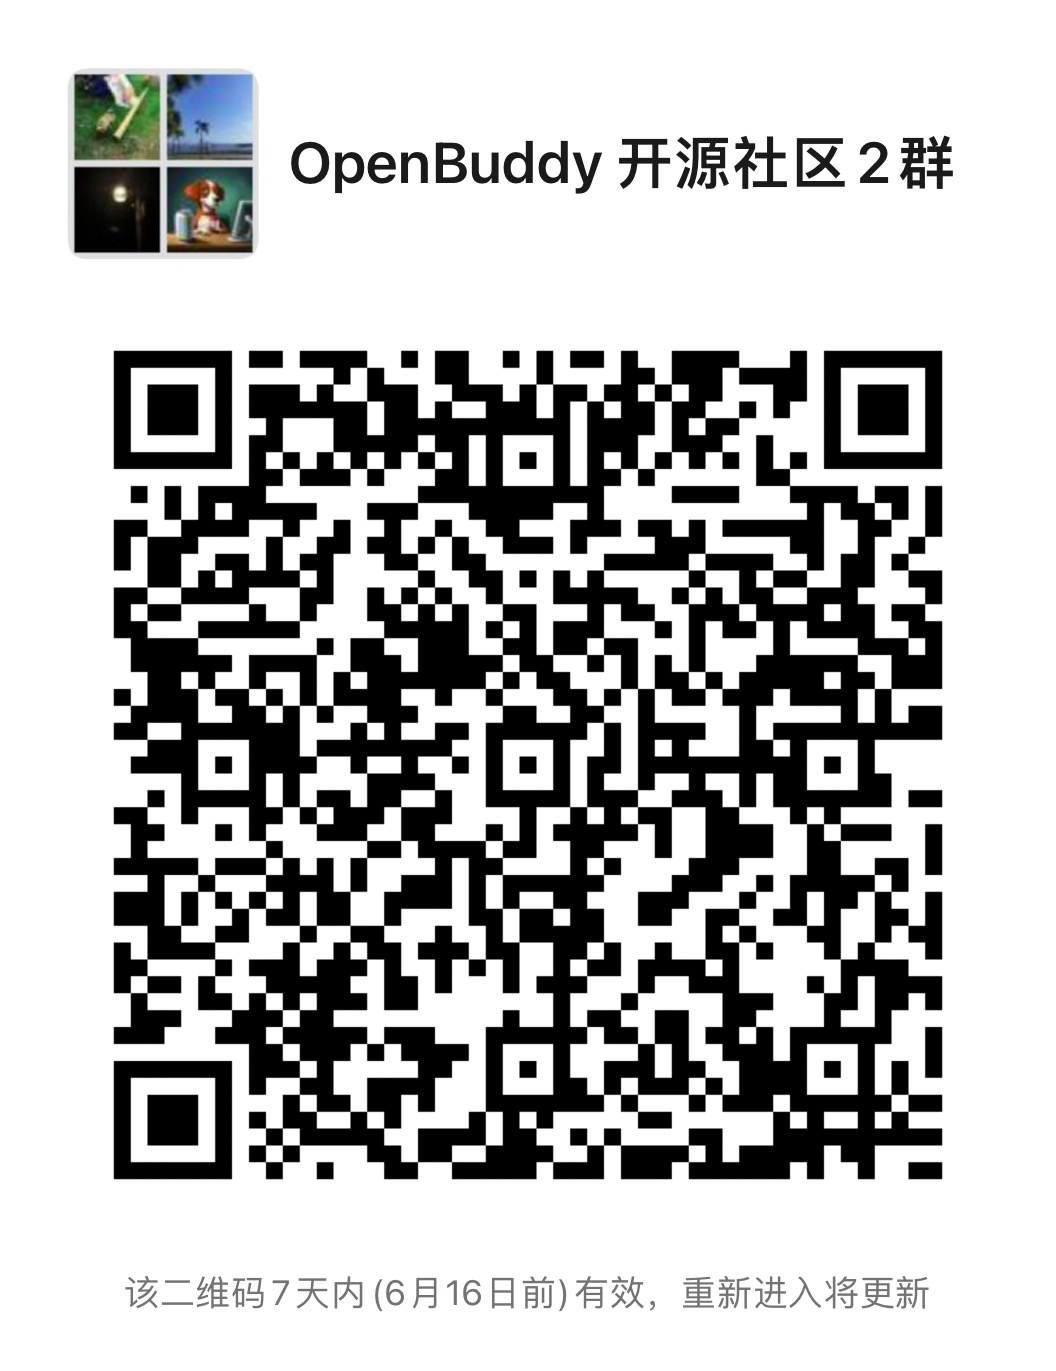
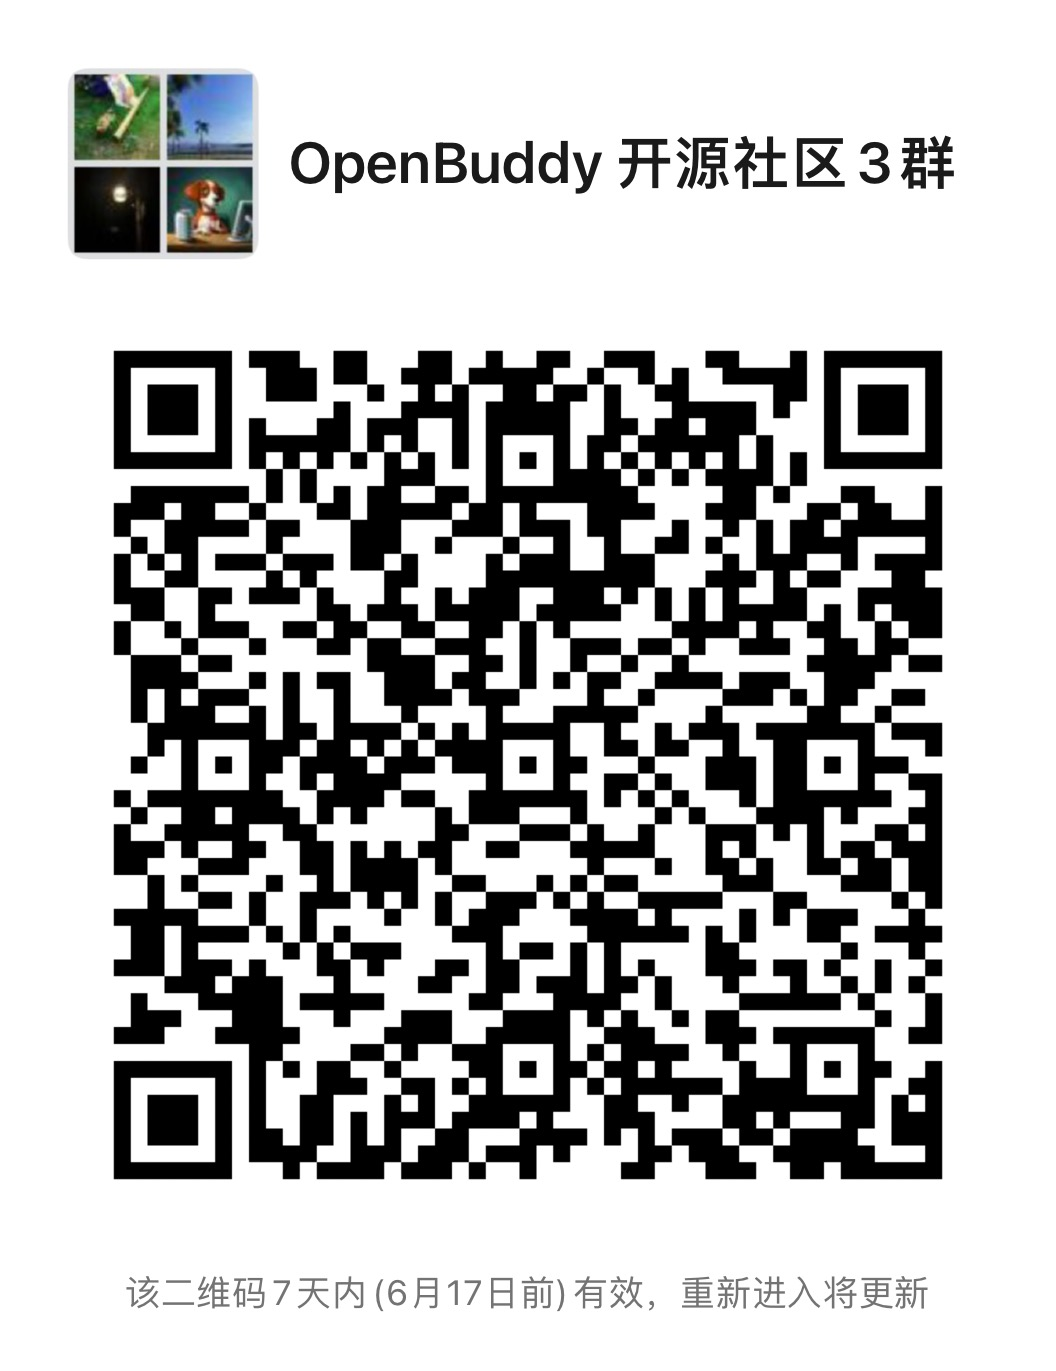
upd wechat

diff --git a/README.zh.md b/README.zh.md
@@ -8,9 +8,15 @@
 
 [中文](README.zh.md) | [English](README.md)
 
-WeChat: 
+**官方微信公众号、微信群: **
 
-<img src="media/wechat.jpg" width="200px">
+欢迎关注我们的官方公众号！我们会第一时间同步研究进展和有意思的应用案例。
+
+在公众号发送“加群”，既可获得微信群邀请。
+
+<img src="media/mp.jpg">
+
+
 
 官网：[https://openbuddy.ai](https://openbuddy.ai)
 
